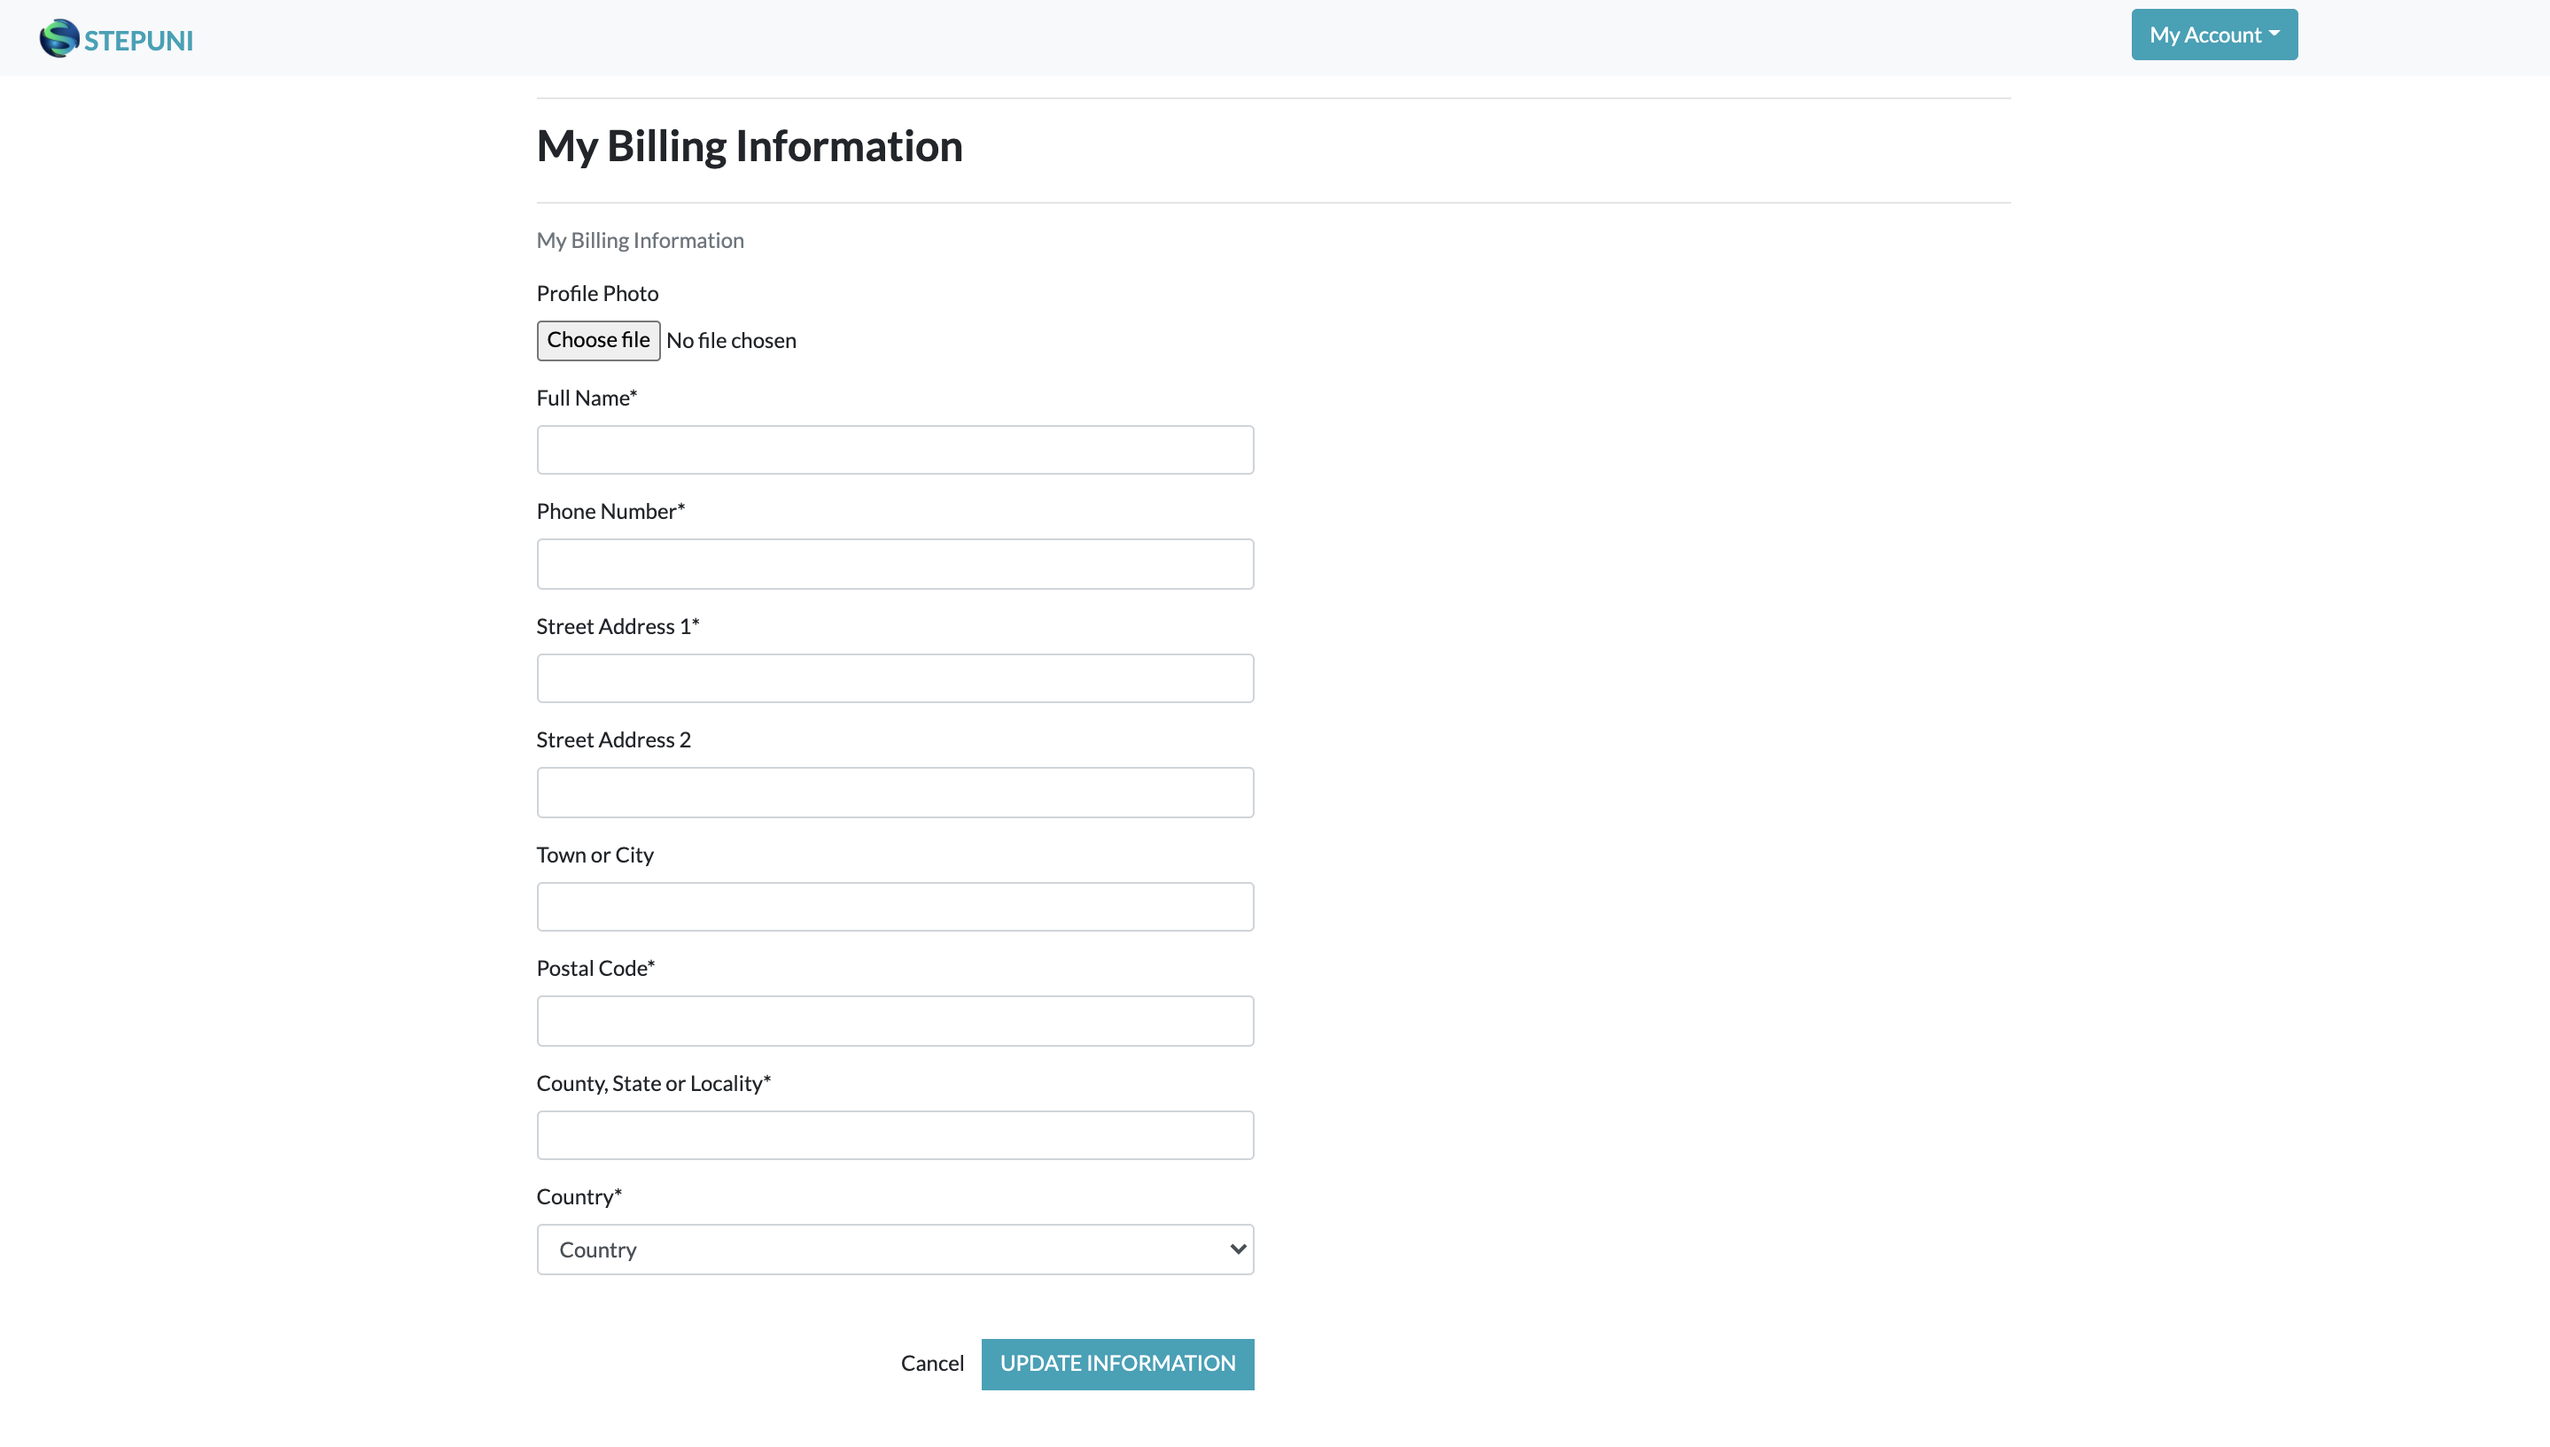
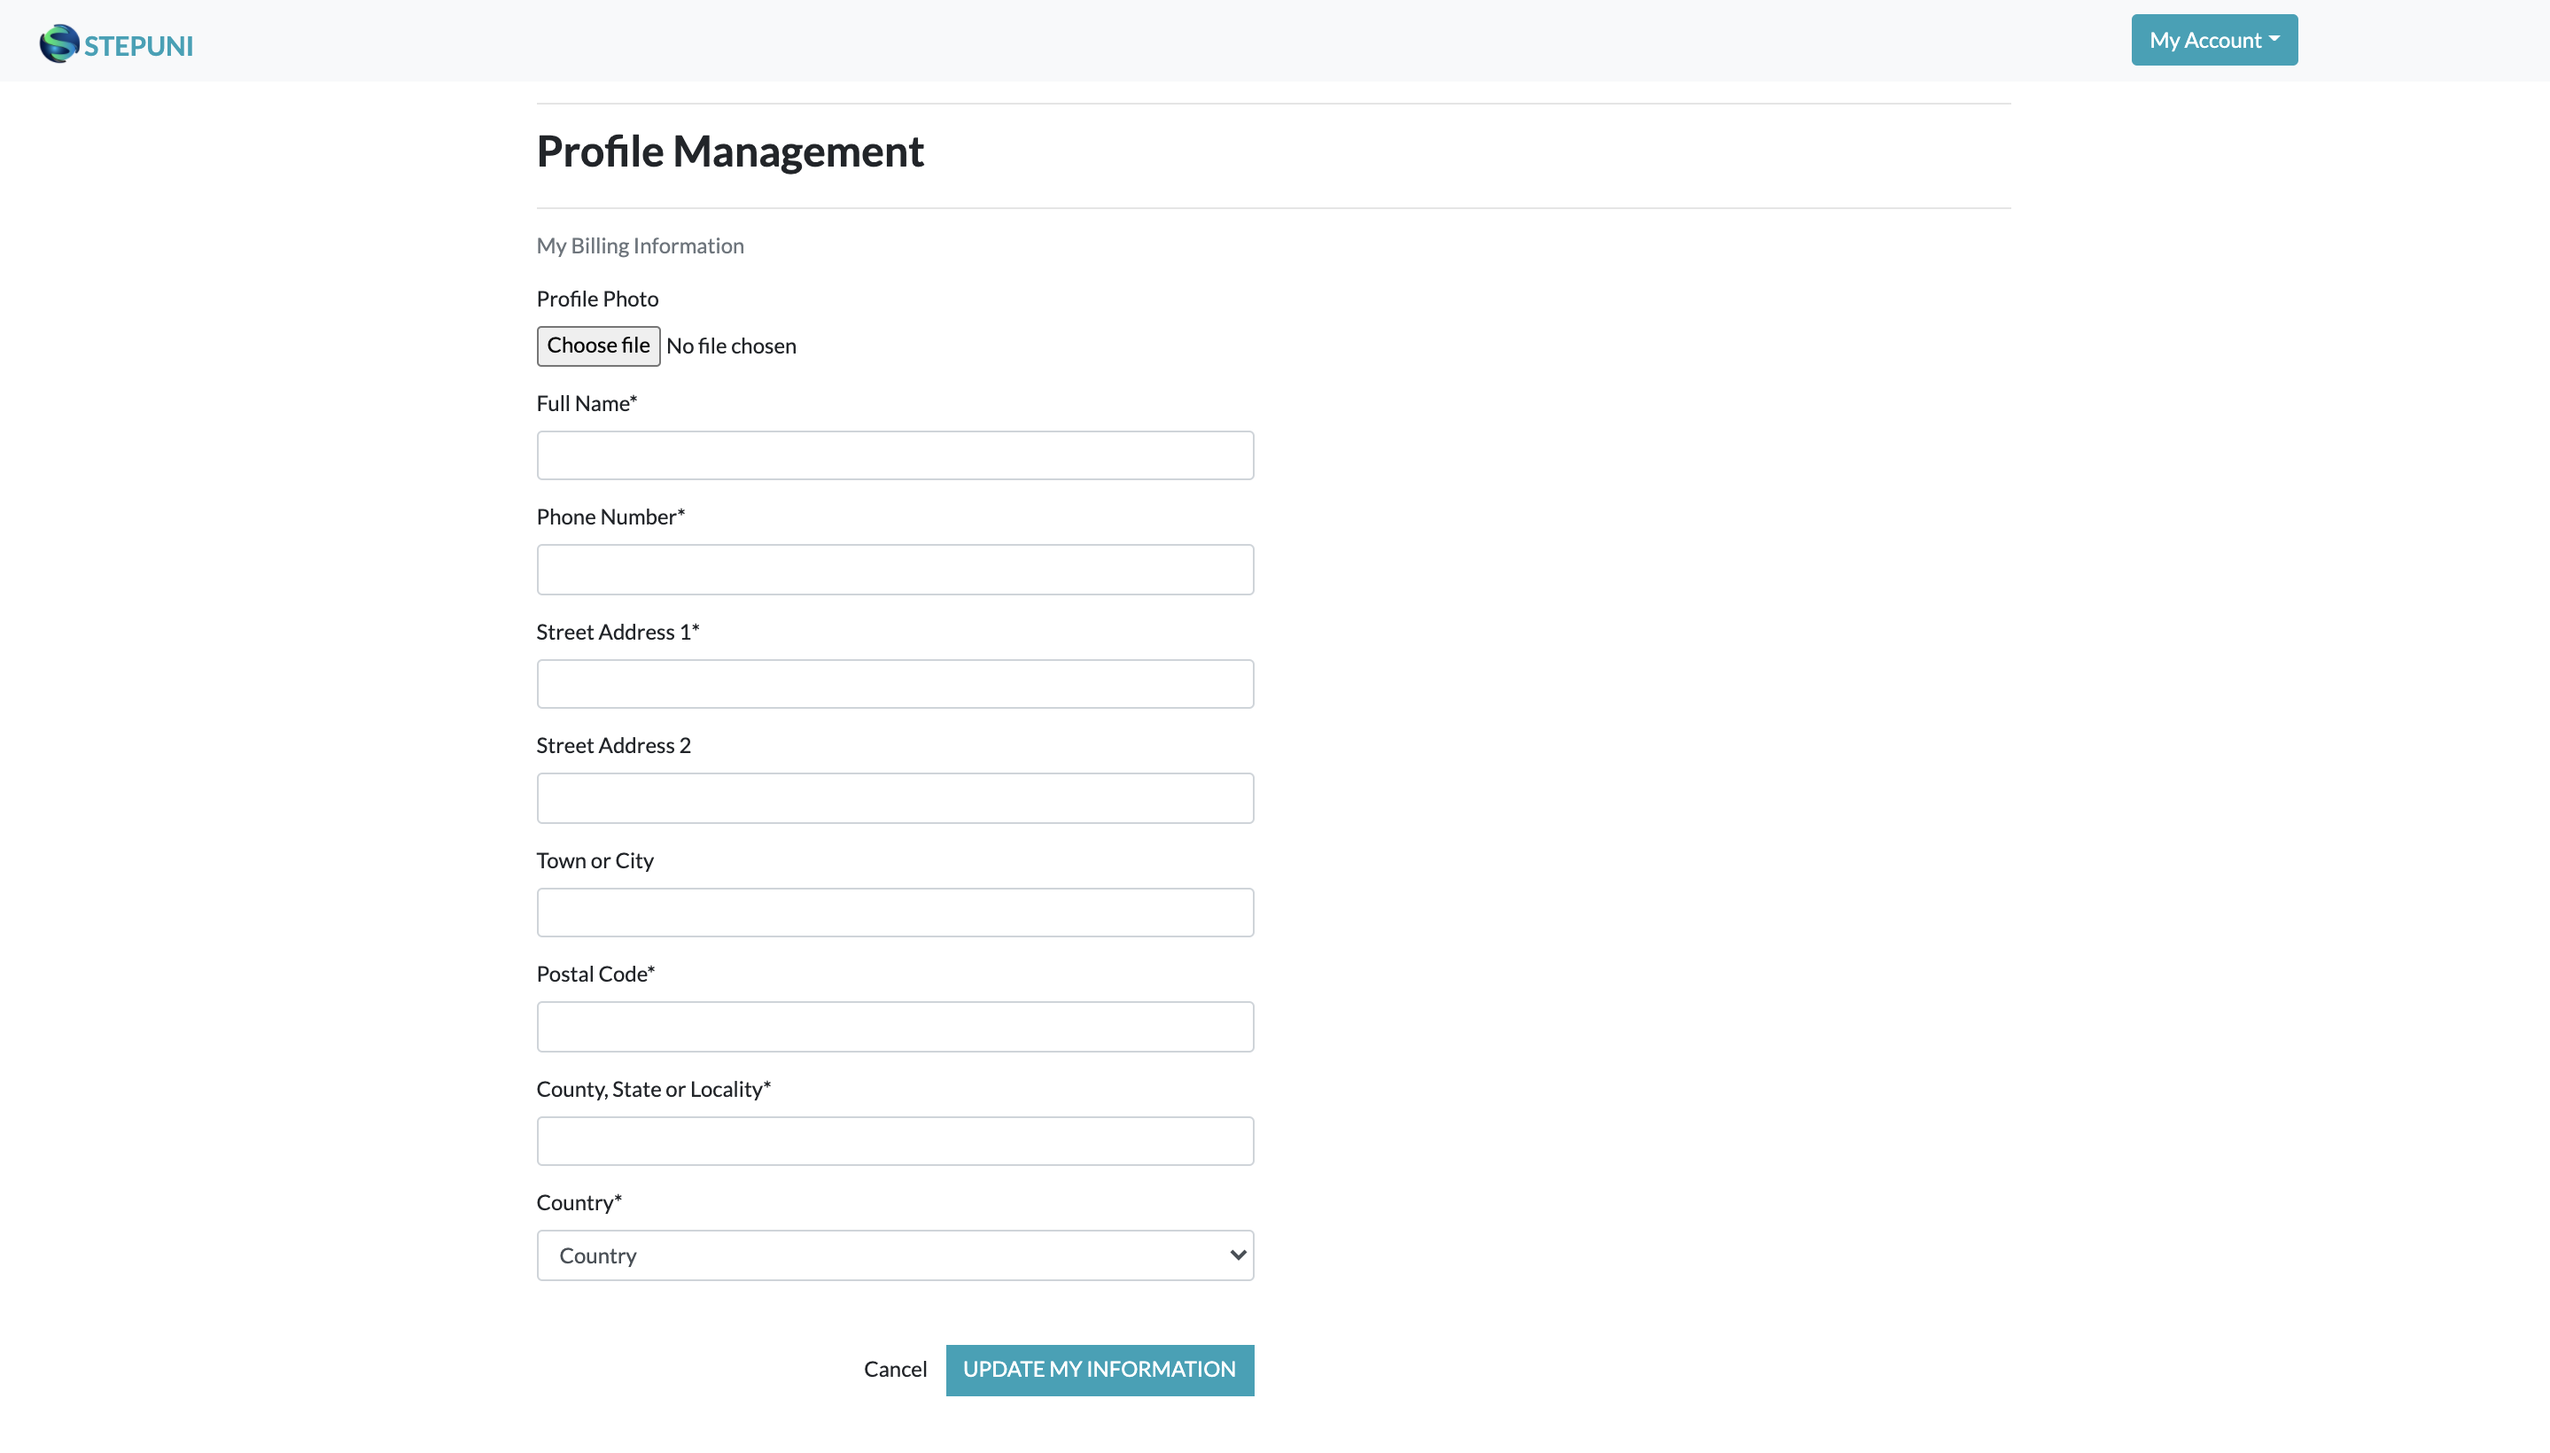
restyled the profile page

diff --git a/profiles/templates/profiles/profile.html b/profiles/templates/profiles/profile.html
@@ -5,31 +5,29 @@
 
 {% block content %}
 <div class="container emp-profile">
-    <form method="post">
-        <div class="row">
-            <div class="col-md-4">
-                <div class="profile-img">
-                    {% if profile.profile_photo %}
-                    <img class="service-img" src="{{ MEDIA_URL }}{{ profile.profile_photo }}"
-                        alt="{{ profile.main_full_name }}">
-                </div>
-                {% else %}
-                <img class="service-img" src="{{ MEDIA_URL }}noimage.png" alt="{{ profile.main_full_name }}">
+    <div class="row">
+        <div class="col-md-4">
+            <div class="profile-img">
+                {% if profile.profile_photo %}
+                <img class="service-img" src="{{ MEDIA_URL }}{{ profile.profile_photo }}"
+                    alt="{{ profile.main_full_name }}">
             </div>
+            {% else %}
+            <img class="service-img" src="{{ MEDIA_URL }}noimage.png" alt="{{ profile.main_full_name }}">
+        </div>
+        {% endif %}
+    </div>
+    <div class="col-md-6">
+        <div class="profile-head">
+            {% if profile.main_full_name%}
+            <h5 class="text-info">
+                {{profile.main_full_name}}
+            </h5>
+            {% else %}
+            <h5>No Name Provided</h5>
             {% endif %}
         </div>
-        <div class="col-md-6">
-            <div class="profile-head">
-                <h5>
-                    {{profile.main_full_name}}
-                </h5>
-            </div>
-        </div>
-        <div class="col-md-2">
-            <a class="btn btn-info m-2 profile-edit-btn" href="{% url 'update_profile' %}"> Edit Profile </a>
-            <a class="btn btn-info m-2 profile-edit-btn" href="{% url 'account_change_password' %}">Change My Password</a>
-            <a class="btn btn-info m-2 profile-edit-btn" href="{% url 'account_email' %}">Change My Email</a>
-        </div>
+    </div>
 </div>
 <div class="row">
     <div class="col-md-4">
@@ -44,10 +42,10 @@
     </div>
     <div class="col-md-8">
         <div class="tab-content profile-tab">
-            <h3 class="pb-3">Billing Information</h3>
+            <h3 class="pb-3 text-secondary">Billing Information</h3>
             <div class="row">
-                <div class="col-md-6">
-                    <label>Address 1</label>
+                <div class="col-md-6 ">
+                    <label class="text-secondary">Address 1</label>
                 </div>
                 <div class="col-md-6">
                     <p>{{profile.main_street_address1}}</p>
@@ -56,7 +54,9 @@
             {% if profile.street_address2 %}
             <div class="row">
                 <div class="col-md-6">
-                    <label>Address 2</label>
+                    <label class="text-secondary">
+                        Address 2
+                    </label>
                 </div>
                 <div class="col-md-6">
                     <p>{{profile.main_street_address2}}</p>
@@ -66,7 +66,7 @@
             {% if profile.main_town_or_city %}
             <div class="row">
                 <div class="col-md-6">
-                    <label>Address 2</label>
+                    <label class="text-secondary">Town or City</label>
                 </div>
                 <div class="col-md-6">
                     <p>{{profile.main_town_or_city}}</p>
@@ -75,7 +75,7 @@
             {% endif %}
             <div class="row">
                 <div class="col-md-6">
-                    <label>County </label>
+                    <label class="text-secondary">County </label>
                 </div>
                 <div class="col-md-6">
                     <p>{{profile.main_county}}</p>
@@ -83,7 +83,7 @@
             </div>
             <div class="row">
                 <div class="col-md-6">
-                    <label>Zip code</label>
+                    <label class="text-secondary">Zip code</label>
                 </div>
                 <div class="col-md-6">
                     <p>{{profile.main_postcode}}</p>
@@ -91,17 +91,24 @@
             </div>
             <div class="row">
                 <div class="col-md-6">
-                    <label>Country</label>
+                    <label class="text-secondary">Country</label>
                 </div>
                 <div class="col-md-6">
                     <p>{{profile.main_country}}</p>
                 </div>
             </div>
         </div>
-
     </div>
 </div>
-</div>
-</form>
+<div class="row">
+    <div class="col-md-4">
+        <a class="btn btn-info m-2 profile-edit-btn text-center" href="{% url 'update_profile' %}"> Edit Profile </a>
+    </div>
+    <div class="col-md-4">
+        <a class="btn btn-info m-2 profile-edit-btn" href="{% url 'account_change_password' %}">Change My Password</a>
+    </div>
+    <div class="col-md-4">
+        <a class="btn btn-info m-2 profile-edit-btn" href="{% url 'account_email' %}">Change My Email</a>
+    </div>
 </div>
 {% endblock %}

diff --git a/static/css/base.css b/static/css/base.css
@@ -190,7 +190,7 @@ section.masthead h1 {
   margin-top: 3%;
   margin-bottom: 3%;
   border-radius: 0.5rem;
-  background: -webkit-linear-gradient(left, #04ebcc, #d5f0e9);
+  /* background: -webkit-linear-gradient(left, #04ebcc, #d5f0e9); */
   padding-top: 30px
 }
 .profile-img{
@@ -268,7 +268,7 @@ section.masthead h1 {
 }
 .profile-tab p{
   font-weight: 600;
-  color: #0062cc;
+  color: #5bc0de;
 }
 
 /* media styling */

diff --git a/stepuni/settings.py b/stepuni/settings.py
@@ -12,6 +12,7 @@ https://docs.djangoproject.com/en/3.1/ref/settings/
 
 import os
 import dj_database_url
+from django.contrib.messages.constants import DEBUG
 
 if os.path.exists("env.py"):
     import env
@@ -26,7 +27,8 @@ BASE_DIR = os.path.dirname(os.path.dirname(os.path.abspath(__file__)))
 SECRET_KEY = os.getenv('SECRET_KEY')
 
 # SECURITY WARNING: don't run with debug turned on in production!
-DEBUG = 'DEVELOPMENT' in os.environ
+# DEBUG = 'DEVELOPMENT' in os.environ
+DEBUG = True
 
 ALLOWED_HOSTS = ['stepuni-milestone4.herokuapp.com', '127.0.0.1']
 

diff --git a/design.md b/design.md
@@ -39,7 +39,6 @@
 ![Profile Desktop](design/D20.png)
 ## Mobile:
 ![Profile Mobile](design/M21.png)
-![Profile Mobile](design/M22.png)
 
 # Quizz List:
 ## Desktop:
